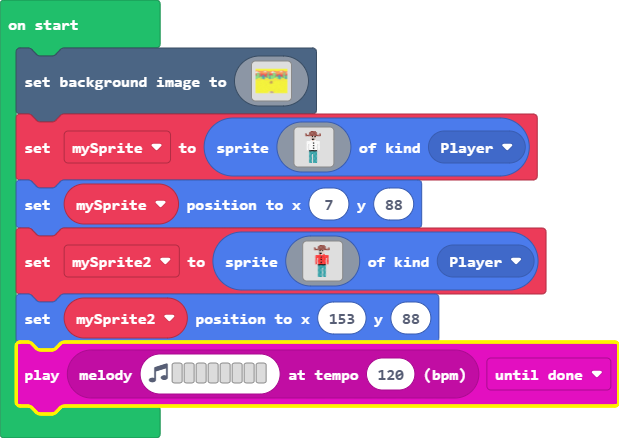
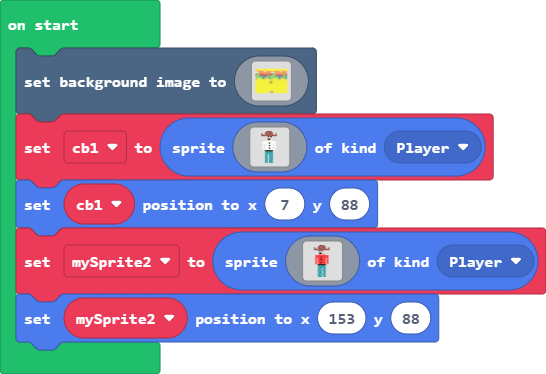
Update main.blocks, main.ts

diff --git a/main.ts b/main.ts
@@ -120,7 +120,7 @@ scene.setBackgroundImage(img`
[2 lines of base64/hex data omitted]
     `)
-let mySprite = sprites.create(img`
+let cb1 = sprites.create(img`
     ......eeee......
     .....eeeeee.....
     ..e..eeeeee..e..
@@ -147,7 +147,7 @@ let mySprite = sprites.create(img`
     .....66.666.....
     .....66.666.....
     `, SpriteKind.Player)
-mySprite.setPosition(7, 88)
+cb1.setPosition(7, 88)
 let mySprite2 = sprites.create(img`
     ......eeee......
     .....eeeeee.....
@@ -176,4 +176,3 @@ let mySprite2 = sprites.create(img`
     .....666.66.....
     `, SpriteKind.Player)
 mySprite2.setPosition(153, 88)
-music.play(music.stringPlayable("- - - - - - - - ", 120), music.PlaybackMode.UntilDone)
